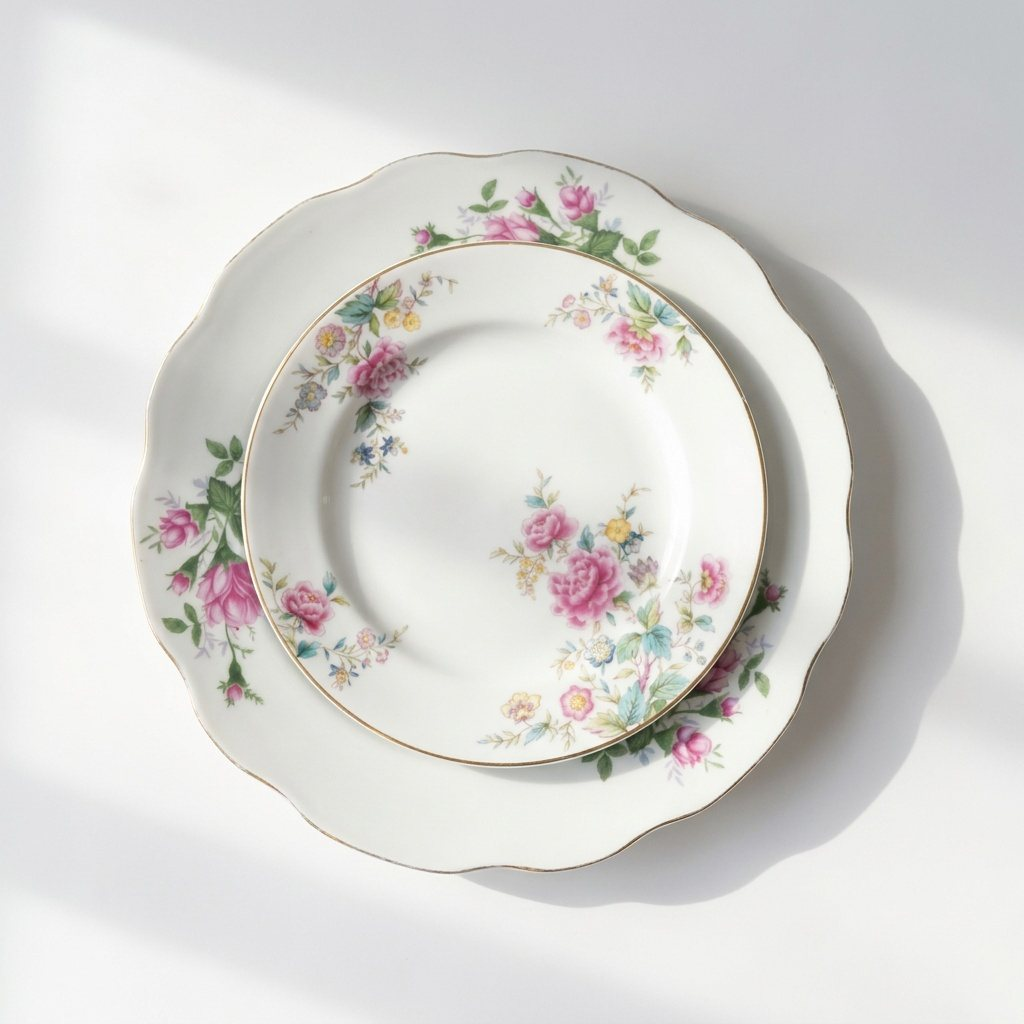
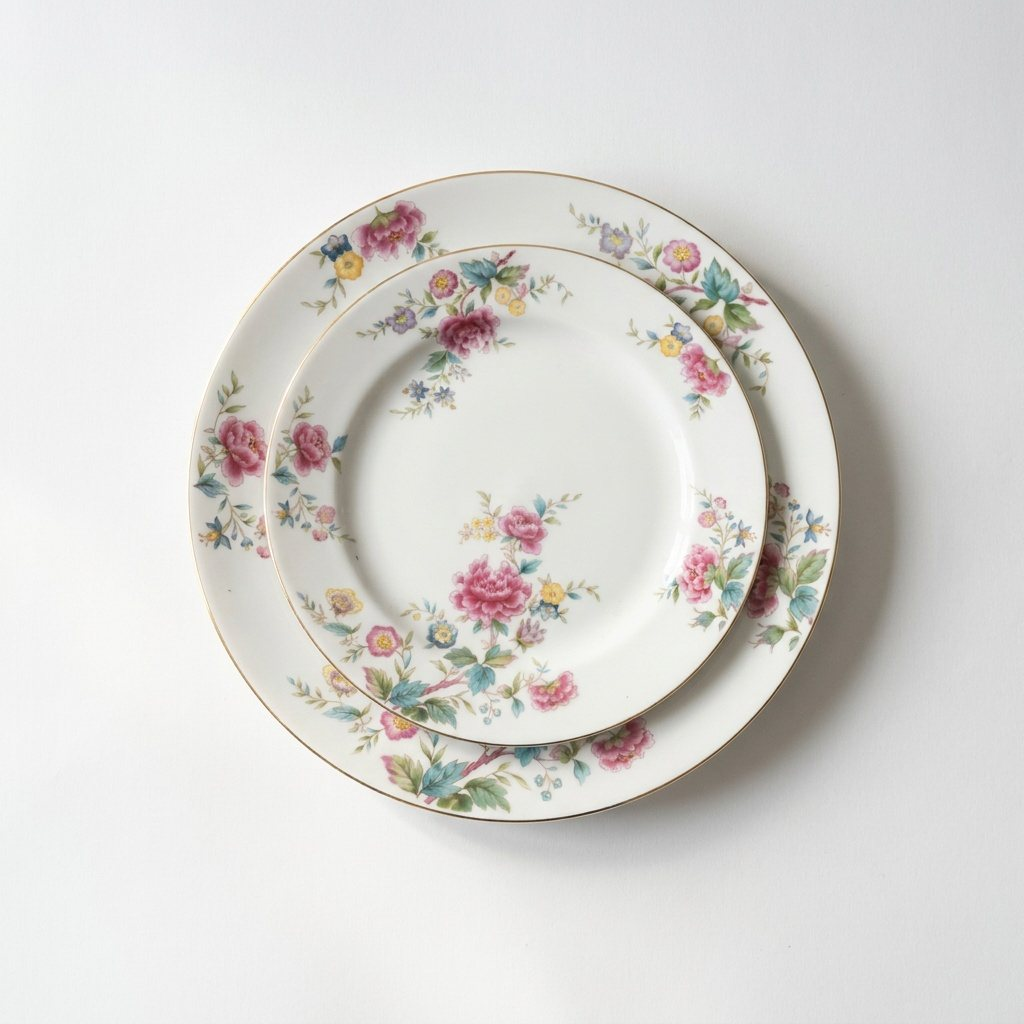
Noritake: nueva portada (2 platos) + reordenar fotos, reemplazar foto borrada; INFO al día

diff --git a/catalogo.html b/catalogo.html
@@ -5,7 +5,7 @@
   <meta name="viewport" content="width=device-width, initial-scale=1.0" />
   <title>Catálogo · La Melange · Vajilla para eventos</title>
   <meta name="description" content="Catálogo de vajilla de alquiler para eventos, por colección y con stock real por modelo." />
-  <link rel="icon" type="image/png" href="assets/00-marca/favicon.png?v=94" />
+  <link rel="icon" type="image/png" href="assets/00-marca/favicon.png?v=95" />
   <meta property="og:type" content="website" />
   <meta property="og:site_name" content="La Melange" />
   <meta property="og:title" content="Catálogo · La Melange · Vajilla para eventos" />
@@ -16,7 +16,7 @@
   <link rel="preconnect" href="https://fonts.googleapis.com" />
   <link rel="preconnect" href="https://fonts.gstatic.com" crossorigin />
   <link href="https://fonts.googleapis.com/css2?family=Playfair+Display:wght@400;500;700&family=Montserrat:wght@300;400;500&display=swap" rel="stylesheet" />
-  <link rel="stylesheet" href="styles.css?v=94" />
+  <link rel="stylesheet" href="styles.css?v=95" />
 </head>
 <body>
 
@@ -100,12 +100,12 @@
     <svg viewBox="0 0 24 24"><path d="M12 2a10 10 0 0 0-8.6 15l-1.3 4.7 4.8-1.3A10 10 0 1 0 12 2zm5.8 14.2c-.2.6-1.2 1.2-1.7 1.2-.5.1-1 .2-3.2-.7-2.7-1.1-4.4-3.9-4.6-4-.1-.2-1-1.4-1-2.6s.6-1.8.9-2c.2-.3.5-.3.7-.3h.5c.2 0 .4 0 .6.5l.8 2c.1.2.1.4 0 .5l-.4.5-.3.4c-.1.1-.3.3-.1.5l.9 1.4c.6.9 1.3 1.2 1.6 1.4.3.1.5.1.6-.1l.7-.9c.2-.2.4-.2.6-.1l1.9.9c.2.1.4.2.5.3.1.3.1.6-.1 1z"/></svg>
   </a>
 
-  <script src="data.js?v=94"></script>
-  <script src="analytics.js?v=94"></script>
-  <script src="cart.js?v=94"></script>
-  <script src="ambiente.js?v=94"></script>
-  <script src="pdpView.js?v=94"></script>
-  <script src="catalog.js?v=94"></script>
+  <script src="data.js?v=95"></script>
+  <script src="analytics.js?v=95"></script>
+  <script src="cart.js?v=95"></script>
+  <script src="ambiente.js?v=95"></script>
+  <script src="pdpView.js?v=95"></script>
+  <script src="catalog.js?v=95"></script>
   <script>
     var hash = (location.hash || '').replace('#','');
     var startCat = (hash && COLECCIONES.some(function(c){ return c.id === hash; })) ? hash : 'todas';
@@ -113,6 +113,6 @@
     var t = document.getElementById('navToggle');
     if (t) t.addEventListener('click', function(){ document.getElementById('navLinks').classList.toggle('open'); });
   </script>
-  <script src="anim.js?v=94"></script>
+  <script src="anim.js?v=95"></script>
 </body>
 </html>

diff --git a/producto.html b/producto.html
@@ -5,7 +5,7 @@
   <meta name="viewport" content="width=device-width, initial-scale=1.0" />
   <title>Producto · La Melange</title>
   <meta name="description" content="Ficha de producto · vajilla de alquiler para eventos boutique." />
-  <link rel="icon" type="image/png" href="assets/00-marca/favicon.png?v=94" />
+  <link rel="icon" type="image/png" href="assets/00-marca/favicon.png?v=95" />
   <meta property="og:type" content="website" />
   <meta property="og:site_name" content="La Melange" />
   <meta property="og:title" content="La Melange · Vajilla para eventos" />
@@ -15,7 +15,7 @@
   <link rel="preconnect" href="https://fonts.googleapis.com" />
   <link rel="preconnect" href="https://fonts.gstatic.com" crossorigin />
   <link href="https://fonts.googleapis.com/css2?family=Playfair+Display:wght@400;500;700&family=Montserrat:wght@300;400;500&display=swap" rel="stylesheet" />
-  <link rel="stylesheet" href="styles.css?v=94" />
+  <link rel="stylesheet" href="styles.css?v=95" />
 </head>
 <body>
 
@@ -49,11 +49,11 @@
     <svg viewBox="0 0 24 24"><path d="M12 2a10 10 0 0 0-8.6 15l-1.3 4.7 4.8-1.3A10 10 0 1 0 12 2zm5.8 14.2c-.2.6-1.2 1.2-1.7 1.2-.5.1-1 .2-3.2-.7-2.7-1.1-4.4-3.9-4.6-4-.1-.2-1-1.4-1-2.6s.6-1.8.9-2c.2-.3.5-.3.7-.3h.5c.2 0 .4 0 .6.5l.8 2c.1.2.1.4 0 .5l-.4.5-.3.4c-.1.1-.3.3-.1.5l.9 1.4c.6.9 1.3 1.2 1.6 1.4.3.1.5.1.6-.1l.7-.9c.2-.2.4-.2.6-.1l1.9.9c.2.1.4.2.5.3.1.3.1.6-.1 1z"/></svg>
   </a>
 
-  <script src="data.js?v=94"></script>
-  <script src="analytics.js?v=94"></script>
-  <script src="cart.js?v=94"></script>
-  <script src="ambiente.js?v=94"></script>
-  <script src="pdpView.js?v=94"></script>
+  <script src="data.js?v=95"></script>
+  <script src="analytics.js?v=95"></script>
+  <script src="cart.js?v=95"></script>
+  <script src="ambiente.js?v=95"></script>
+  <script src="pdpView.js?v=95"></script>
   <script>
   (function () {
     var id = new URLSearchParams(location.search).get('id');

diff --git a/index.html b/index.html
@@ -5,7 +5,7 @@
   <meta name="viewport" content="width=device-width, initial-scale=1.0" />
   <title>Alquiler de vajilla para eventos boutique · piezas únicas · La Melange</title>
   <meta name="description" content="Alquiler de vajilla para casamientos, corporativos y eventos boutique. Piezas únicas, vintage y de autor, con stock real por modelo. Para wedding planners, ambientadores y particulares. CABA y Gran Buenos Aires." />
-  <link rel="icon" type="image/png" href="assets/00-marca/favicon.png?v=94" />
+  <link rel="icon" type="image/png" href="assets/00-marca/favicon.png?v=95" />
   <meta property="og:type" content="website" />
   <meta property="og:site_name" content="La Melange" />
   <meta property="og:title" content="Alquiler de vajilla para eventos boutique · La Melange" />
@@ -16,7 +16,7 @@
   <link rel="preconnect" href="https://fonts.googleapis.com" />
   <link rel="preconnect" href="https://fonts.gstatic.com" crossorigin />
   <link href="https://fonts.googleapis.com/css2?family=Playfair+Display:wght@400;500;700&family=Montserrat:wght@300;400;500&display=swap" rel="stylesheet" />
-  <link rel="stylesheet" href="styles.css?v=94" />
+  <link rel="stylesheet" href="styles.css?v=95" />
 </head>
 <body>
 
@@ -215,9 +215,9 @@
     <svg viewBox="0 0 24 24"><path d="M12 2a10 10 0 0 0-8.6 15l-1.3 4.7 4.8-1.3A10 10 0 1 0 12 2zm5.8 14.2c-.2.6-1.2 1.2-1.7 1.2-.5.1-1 .2-3.2-.7-2.7-1.1-4.4-3.9-4.6-4-.1-.2-1-1.4-1-2.6s.6-1.8.9-2c.2-.3.5-.3.7-.3h.5c.2 0 .4 0 .6.5l.8 2c.1.2.1.4 0 .5l-.4.5-.3.4c-.1.1-.3.3-.1.5l.9 1.4c.6.9 1.3 1.2 1.6 1.4.3.1.5.1.6-.1l.7-.9c.2-.2.4-.2.6-.1l1.9.9c.2.1.4.2.5.3.1.3.1.6-.1 1z"/></svg>
   </a>
 
-  <script src="data.js?v=94"></script>
-  <script src="analytics.js?v=94"></script>
-  <script src="cart.js?v=94"></script>
+  <script src="data.js?v=95"></script>
+  <script src="analytics.js?v=95"></script>
+  <script src="cart.js?v=95"></script>
   <script>
     var WA = 'https://wa.me/' + WSP;
     function waLink(text){ return WA + '?text=' + encodeURIComponent(text); }
@@ -429,6 +429,6 @@
     var t = document.getElementById('navToggle');
     if (t) t.addEventListener('click', function(){ document.getElementById('navLinks').classList.toggle('open'); });
   </script>
-  <script src="anim.js?v=94"></script>
+  <script src="anim.js?v=95"></script>
 </body>
 </html>

diff --git a/solicitud.html b/solicitud.html
@@ -5,7 +5,7 @@
   <meta name="viewport" content="width=device-width, initial-scale=1.0" />
   <title>Mi solicitud · La Melange</title>
   <meta name="description" content="Armá tu solicitud de presupuesto: elegí los modelos y la cantidad, y te lo cotizamos." />
-  <link rel="icon" type="image/png" href="assets/00-marca/favicon.png?v=94" />
+  <link rel="icon" type="image/png" href="assets/00-marca/favicon.png?v=95" />
   <meta property="og:type" content="website" />
   <meta property="og:site_name" content="La Melange" />
   <meta property="og:title" content="Mi solicitud · La Melange" />
@@ -15,7 +15,7 @@
   <link rel="preconnect" href="https://fonts.googleapis.com" />
   <link rel="preconnect" href="https://fonts.gstatic.com" crossorigin />
   <link href="https://fonts.googleapis.com/css2?family=Playfair+Display:wght@400;500;700&family=Montserrat:wght@300;400;500&display=swap" rel="stylesheet" />
-  <link rel="stylesheet" href="styles.css?v=94" />
+  <link rel="stylesheet" href="styles.css?v=95" />
 </head>
 <body>
 
@@ -72,9 +72,9 @@
     </div>
   </footer>
 
-  <script src="data.js?v=94"></script>
-  <script src="analytics.js?v=94"></script>
-  <script src="cart.js?v=94"></script>
+  <script src="data.js?v=95"></script>
+  <script src="analytics.js?v=95"></script>
+  <script src="cart.js?v=95"></script>
   <script>
   (function () {
     var WSP_NUM = (typeof WSP !== 'undefined') ? WSP : '5491167199527';

diff --git a/tea-party.html b/tea-party.html
@@ -6,7 +6,7 @@
   <title>Tea Party, Mesa Dulce y Candy Bar · La Melange</title>
   <meta name="description" content="Vajilla vintage para Tea Party, mesa dulce y candy bar: baby shower, cumpleaños, fiesta de 15, bautismo y meriendas. Platos floreados mix & match, cristal de color y dorados para celebraciones con encanto." />
   <meta name="keywords" content="tea party, mesa dulce, candy bar, baby shower, fiesta de 15, cumpleaños temático, merienda vintage, bautismo, vajilla vintage, alquiler de vajilla" />
-  <link rel="icon" type="image/png" href="assets/00-marca/favicon.png?v=94" />
+  <link rel="icon" type="image/png" href="assets/00-marca/favicon.png?v=95" />
   <meta property="og:type" content="website" />
   <meta property="og:site_name" content="La Melange" />
   <meta property="og:title" content="Tea Party, Mesa Dulce y Candy Bar · La Melange" />
@@ -17,7 +17,7 @@
   <link rel="preconnect" href="https://fonts.googleapis.com" />
   <link rel="preconnect" href="https://fonts.gstatic.com" crossorigin />
   <link href="https://fonts.googleapis.com/css2?family=Playfair+Display:wght@400;500;700&family=Montserrat:wght@300;400;500&display=swap" rel="stylesheet" />
-  <link rel="stylesheet" href="styles.css?v=94" />
+  <link rel="stylesheet" href="styles.css?v=95" />
 </head>
 <body>
 
@@ -86,9 +86,9 @@
     </div>
   </footer>
 
-  <script src="data.js?v=94"></script>
-  <script src="analytics.js?v=94"></script>
-  <script src="cart.js?v=94"></script>
+  <script src="data.js?v=95"></script>
+  <script src="analytics.js?v=95"></script>
+  <script src="cart.js?v=95"></script>
   <script>
   (function () {
     var WSP_NUM = (typeof WSP !== 'undefined') ? WSP : '5491167199527';

diff --git a/data.js b/data.js
@@ -60,7 +60,7 @@ var PRODUCTOS = [
   { id:'minerva', nombre:'Minerva', coleccion:'platos', icon:'bowl', material:'Mix & match · varios', destacado:false, piezas:[{t:'Playo',s:17},{t:'Entrada / postre',s:11}], tags:['mix & match','vintage','multicolor','playo','postre'], descripcion:'Plato vintage Minerva, mix & match. Combinable con cualquier bajoplato de la línea.', combinaCon:['plato-de-sitio-perla-oro','vogt'], fotos:['assets/02-platos/mix-and-match/varios/minerva/minerva-2.jpg','assets/02-platos/mix-and-match/varios/minerva/minerva-1.jpg'] },
   { id:'vogt', nombre:'Vogt', coleccion:'platos', icon:'bowl', material:'Mix & match · varios', destacado:false, piezas:[{t:'Playo',s:35},{t:'Entrada / postre',s:18}], tags:['mix & match','vintage','multicolor','playo','postre'], descripcion:'Plato vintage Vogt, mix & match. Combinable con cualquier bajoplato de la línea.', combinaCon:['plato-de-sitio-perla-oro','minerva'], fotos:['assets/02-platos/mix-and-match/varios/vogt/vogt-1.jpg','assets/02-platos/mix-and-match/varios/vogt/vogt-2.jpg'] },
   { id:'winterling-bavaria', nombre:'Winterling Bavaria', coleccion:'platos', icon:'bowl', material:'Mix & match · varios', destacado:false, piezas:[{t:'Playo',s:20}], tags:['mix & match','vintage','multicolor','playo'], descripcion:'Plato playo Winterling Bavaria, mix & match vintage.', combinaCon:['plato-de-sitio-perla-oro','minerva','vogt'], fotos:['assets/02-platos/mix-and-match/varios/winterling-bavaria/winterling-bavaria-1.jpg'] },
-  { id:'noritake', nombre:'Noritake', coleccion:'platos', icon:'bowl', material:'Mix & match · varios', destacado:false, piezas:[{t:'Entrada / postre',s:6}], tags:['mix & match','vintage','multicolor','postre'], descripcion:'Plato playo Noritake, mix & match vintage.', combinaCon:['plato-de-sitio-perla-oro'], fotos:['assets/02-platos/mix-and-match/varios/noritake/noritake-1.jpg','assets/02-platos/mix-and-match/varios/noritake/noritake-2.jpg'] },
+  { id:'noritake', nombre:'Noritake', coleccion:'platos', icon:'bowl', material:'Mix & match · varios', destacado:false, piezas:[{t:'Entrada / postre',s:6}], tags:['mix & match','vintage','multicolor','postre'], descripcion:'Plato playo Noritake, mix & match vintage.', combinaCon:['plato-de-sitio-perla-oro'], fotos:['assets/02-platos/mix-and-match/varios/noritake/noritake-1.jpg','assets/02-platos/mix-and-match/varios/noritake/noritake-2.jpg','assets/02-platos/mix-and-match/varios/noritake/noritake-3.jpg'] },
   { id:'tsuji-guarda-rosa', nombre:'Tsuji Guarda Flores Rosa', coleccion:'platos', icon:'bowl', material:'Mix & match · varios', destacado:false, piezas:[{t:'Playo',s:10}], tags:['mix & match','vintage','rosa','playo'], descripcion:'Plato playo Tsuji guarda flores rosa, mix & match.', combinaCon:['plato-de-sitio-perla-oro'], fotos:['assets/02-platos/mix-and-match/varios/tsuji-guarda-rosa/tsuji-guarda-rosa-1.jpg'] },
   { id:'bavaria-lila', nombre:'Bavaria Lila', coleccion:'platos', icon:'bowl', material:'Mix & match · varios', destacado:false, piezas:[{t:'Playo',s:10}], tags:['mix & match','vintage','multicolor','playo'], descripcion:'Plato playo Bavaria lila, mix & match vintage.', combinaCon:['plato-de-sitio-perla-oro'], fotos:['assets/02-platos/mix-and-match/varios/bavaria-lila/bavaria-lila-1.jpg'] },
   { id:'tsuji-hojas-verdes', nombre:'Tsuji Hojas Verdes', coleccion:'platos', icon:'bowl', material:'Mix & match · varios', destacado:false, piezas:[{t:'Playo',s:24},{t:'Entrada / postre',s:11}], tags:['mix & match','vintage','verde','playo','postre'], descripcion:'Plato de entrada Tsuji hojas verdes, mix & match.', combinaCon:['plato-de-sitio-perla-oro'], fotos:['assets/02-platos/mix-and-match/verde/tsuji-hojas-verdes/tsuji-hojas-verdes-3.jpg','assets/02-platos/mix-and-match/verde/tsuji-hojas-verdes/tsuji-hojas-verdes-1.jpg','assets/02-platos/mix-and-match/verde/tsuji-hojas-verdes/tsuji-hojas-verdes-2.jpg'] },